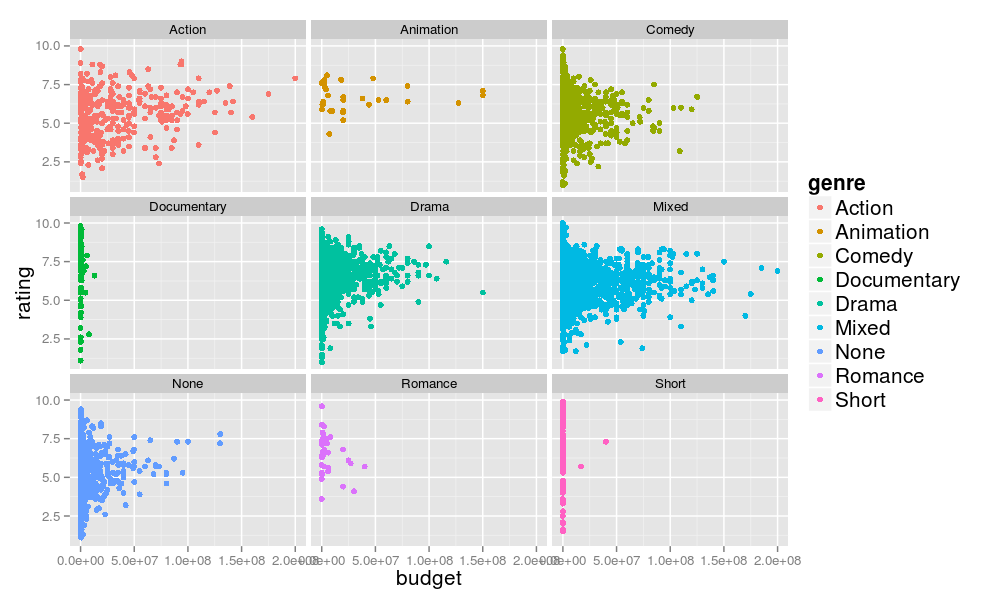
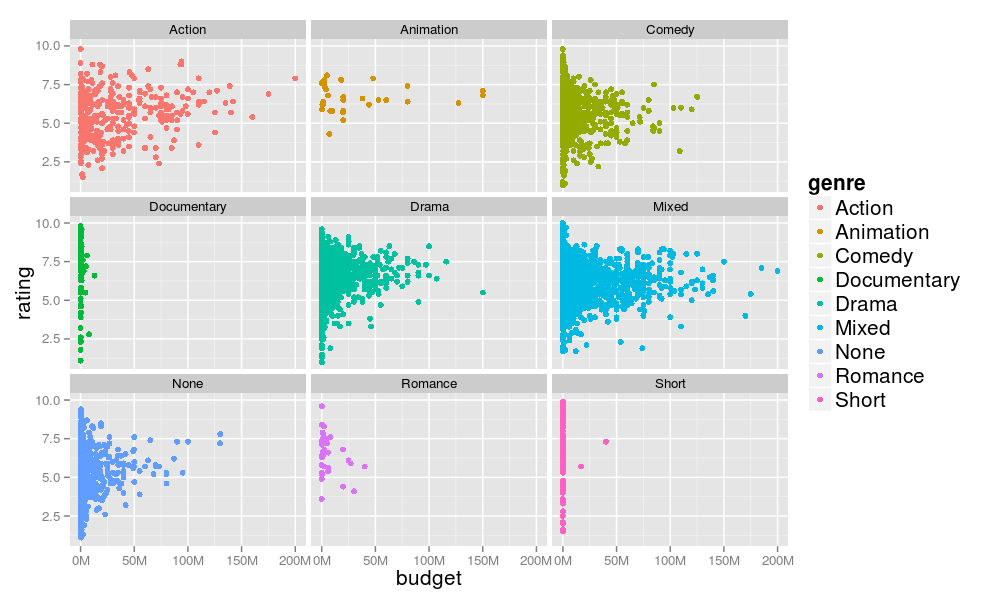
last version

Changed region(s): [[0.062, 0.93, 0.806, 0.96]]

diff --git a/homework1/README.md b/homework1/README.md
@@ -17,6 +17,8 @@ Also, To keep PNG files, please specify your working directory before running th
 In summary, the following is the R code to run my code.
 
 ```
+library(ggplot2)
+library(reshape2)
 library(devtools)
 setwd("/your_working_directory") 
 source_url("https://raw.githubusercontent.com/yosukekatada/msan622/9df534c38d8d635dc12849195763b8ccb9aa886b/homework1/MSAN622_HW1.R")
@@ -30,7 +32,7 @@ source_url("https://raw.githubusercontent.com/yosukekatada/msan622/9df534c38d8d6
 Although I expected that "budget" is somewhat positively correlated to "rating", it is not true. Even if the budget is almost zero, many movies have high ratings. Also, I notice that the range of rating converges as the budget increases. 
 
 ####Customization
-In terms of customization of the chart, I enlarged the fonts of title, the labels on the axes for making the audience easily understand them.
+In terms of customization of the chart, I enlarged the fonts of title, the labels on the axes for making the audience easily understand them. Also, I changed the x-axis format in million.
 
 ![IMAGE](hw1-scatter.png)
 
@@ -40,7 +42,7 @@ In terms of customization of the chart, I enlarged the fonts of title, the label
 According to the bar chart below, the distribution is not uniform. Therefore, I can guess that each genre has different partter on scatter plot of "budget vs rating".
 
 ####Customization
-As well as the first chart, I made the font size bigger. Also, in order to make the audience easily read the labels, I rotated the chart because the most important information is genre in this chart. Finally, I chaged color from the default color to the darker blue because I want the audience not to pay attention to the meaning of the color itself. 
+In order to make the audience easily read the labels, I made the font size bigger and rortated the chart. Also, I reorderd bar by decreasing order. Furtheremore, I deleted the horizontal grid lines because they do not give any additional inoformation. Finally, I changed the color from the default color to the darker blue because I want the audience pay attention not to the meaning of the color but to the lables.  
 
 ![IMAGE](hw1-bar.png)
 ***
@@ -48,7 +50,7 @@ As well as the first chart, I made the font size bigger. Also, in order to make 
 When I look at the multiple scatter plots as below, there looks major two patters. FIrst, the parttern is that the range of rating shrinks as the budget increases. "Action", "Comedy", "Drama", "Mixed", and "None" fall in this pattern. The second pattern is that budget is almost zero, although rating has a large variation. "Documentary" and "Short" are in this pattern. "Animation" and "Romance" are not fitted in those two patterns. Regarding Animation, budget is unrelated to rating. When it comes to "Romance", I cannot say that there is some specific pattern.
 
 ####Customization
-The most important information on this chart is the differences among the distributions. Therefore, I made the legend's font bigger. 
+The most important information on this chart is the differences among the distributions. Therefore, I made the legend's font bigger. As well as the first plot, I chaned the format on x-axis.
 
 
 ![IMAGE](hw1-multiples.png)
